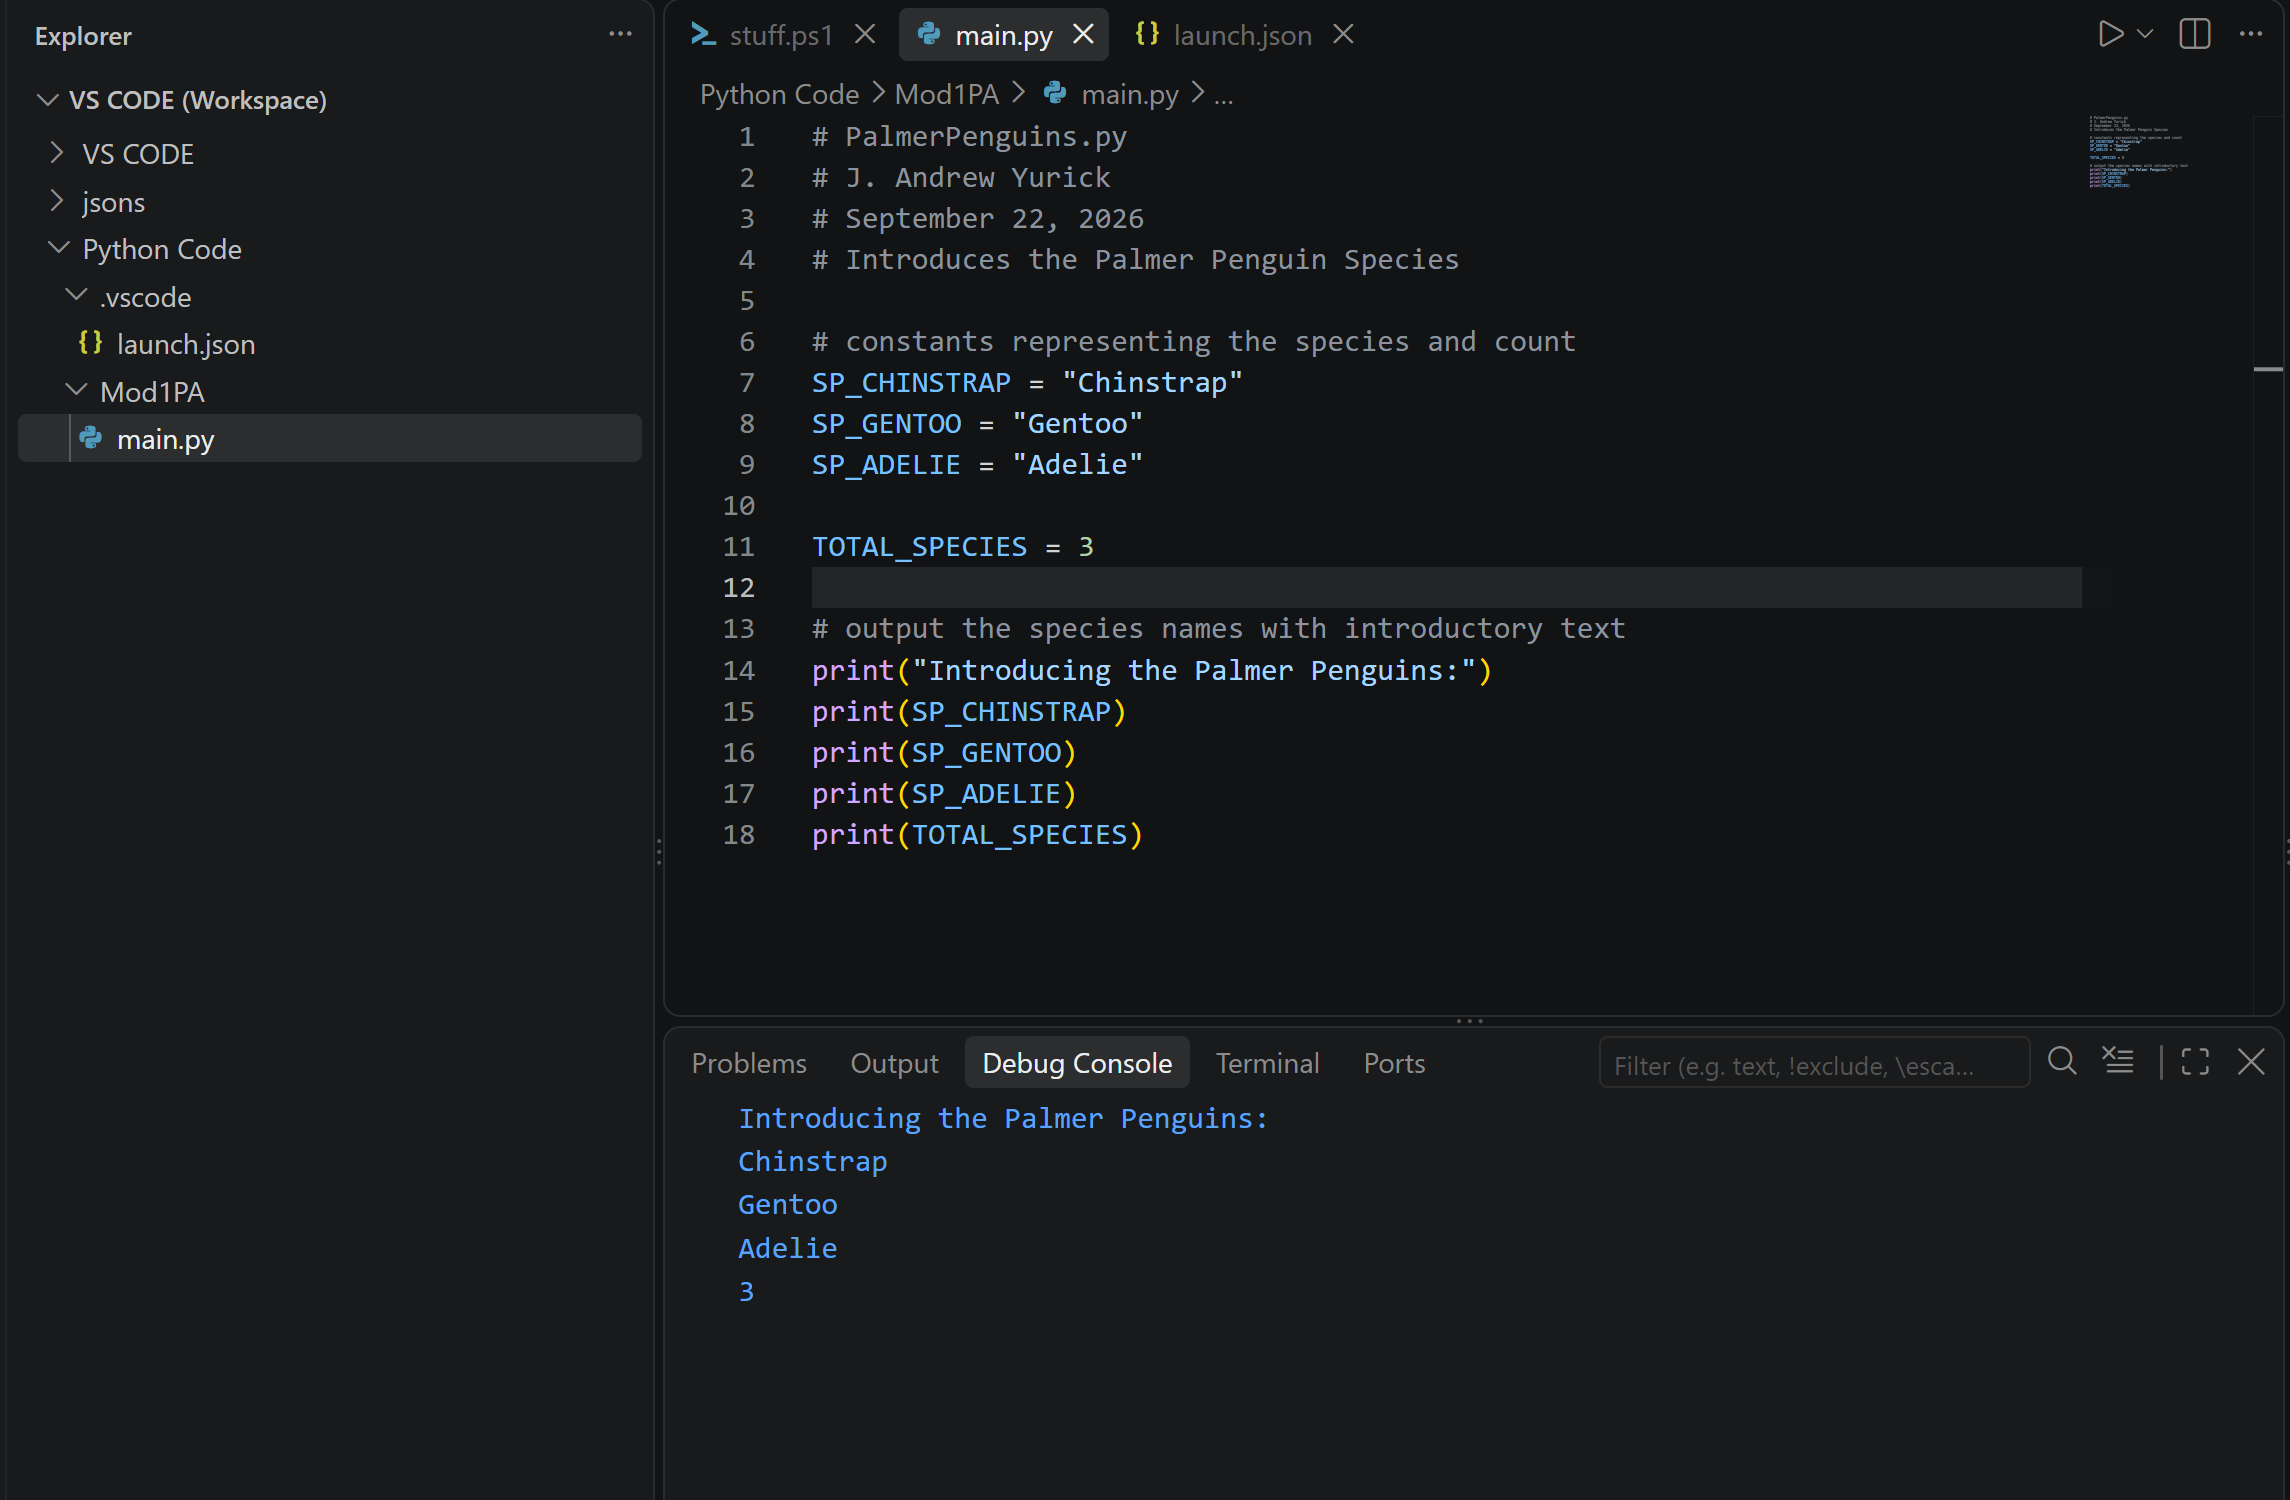
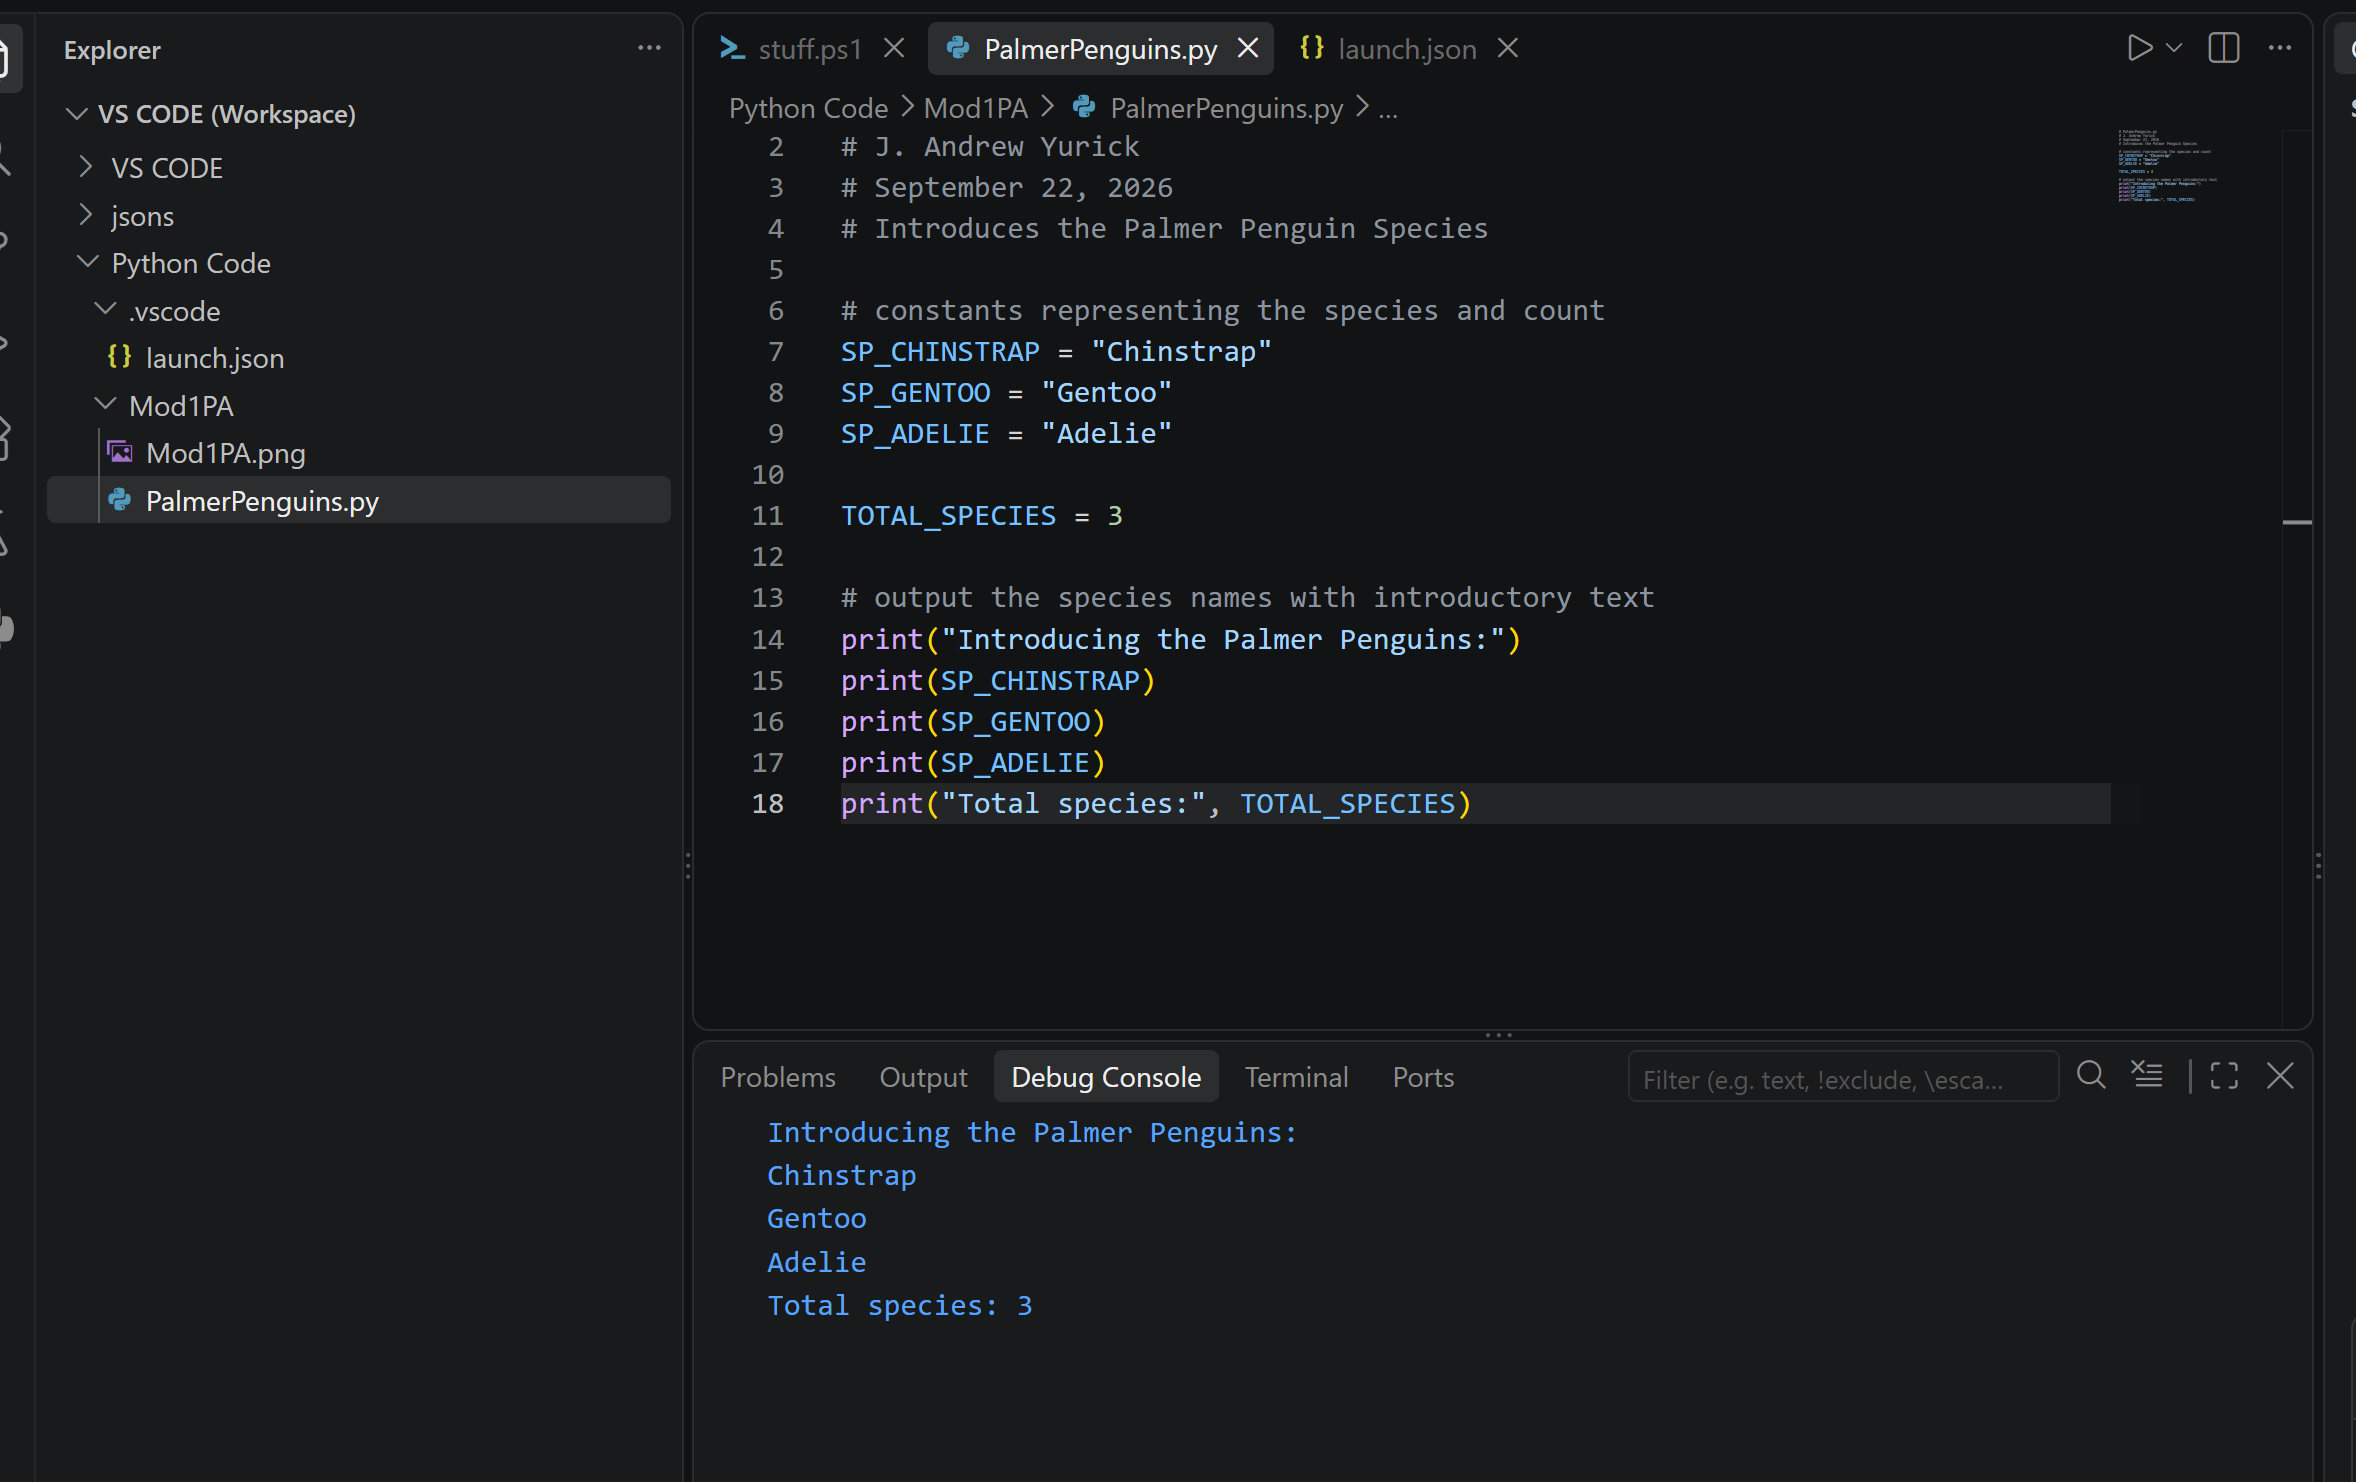
File update
slight adjustment to output

diff --git a/PalmerPenguins.py b/PalmerPenguins.py
@@ -15,4 +15,4 @@ print("Introducing the Palmer Penguins:")
 print(SP_CHINSTRAP)
 print(SP_GENTOO)
 print(SP_ADELIE)
-print(TOTAL_SPECIES)
+print("Total species:", TOTAL_SPECIES)
